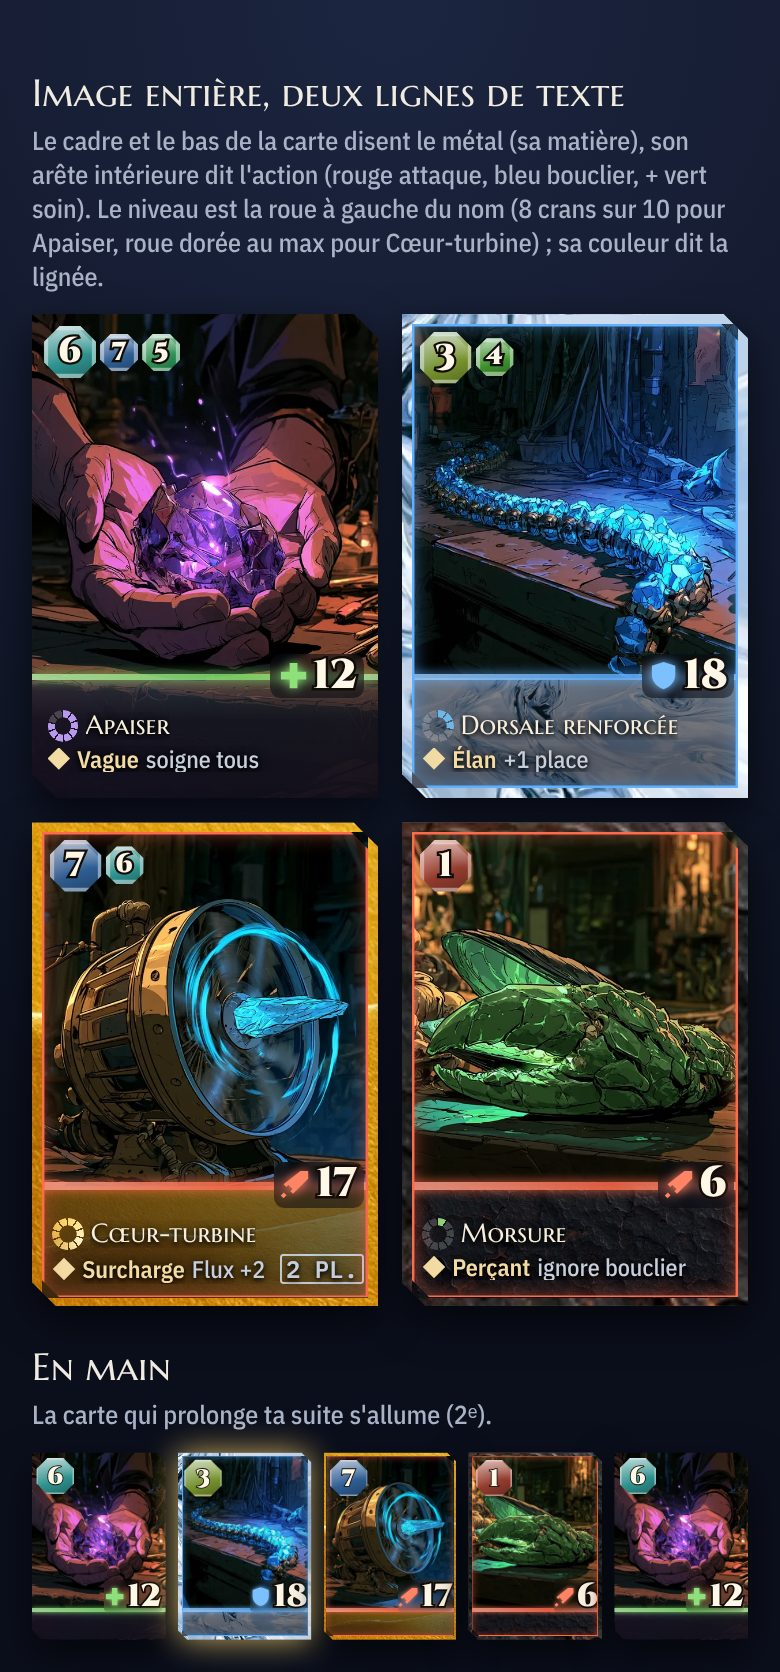
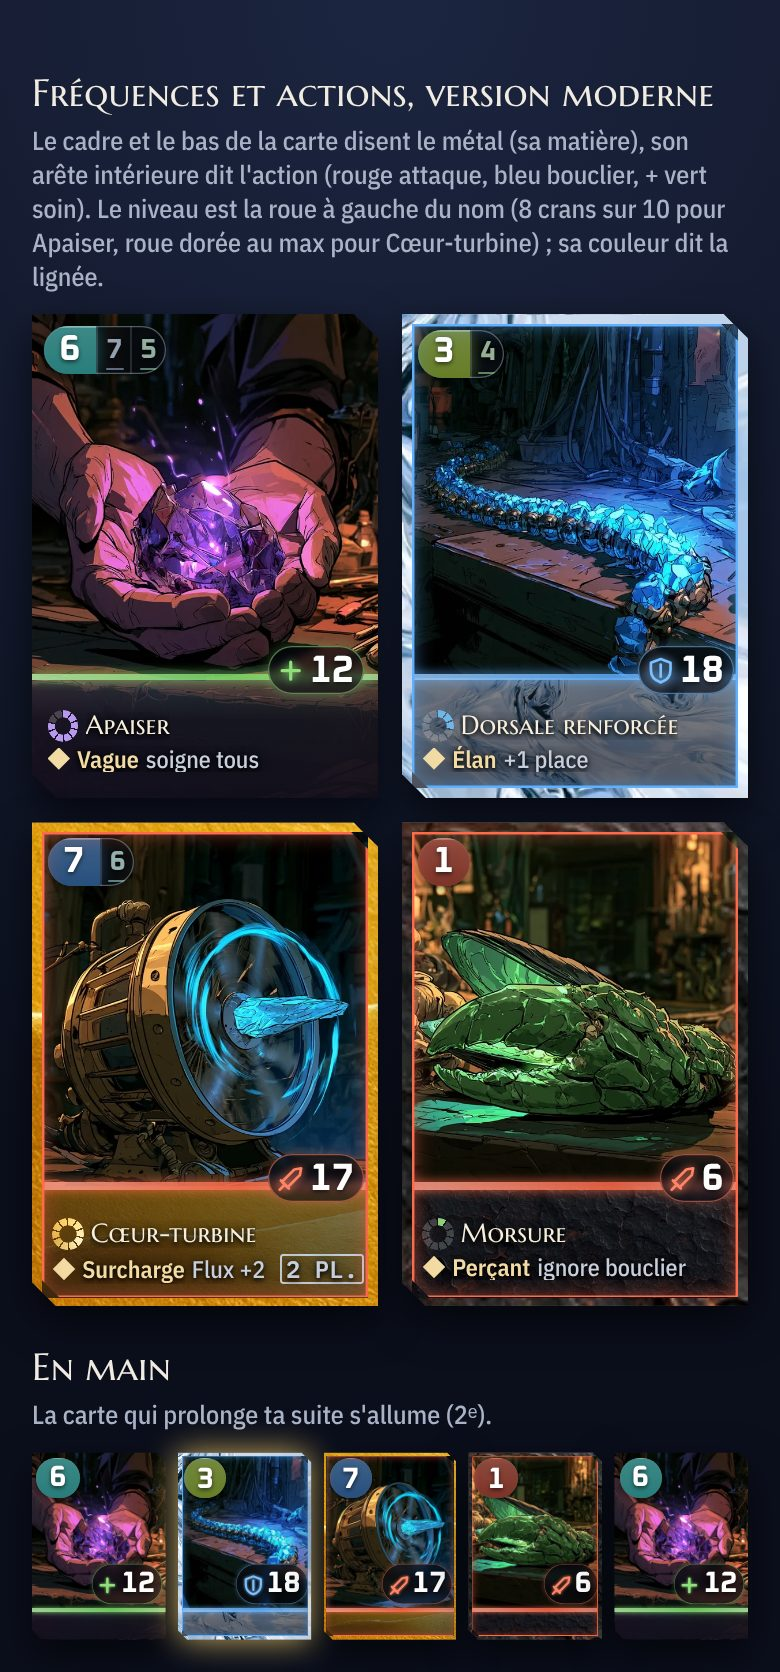
Carte optimale : Fréquences et valeur en capsules de verre, icônes au trait
Claude-Session: https://claude.ai/code/session_01YVrYiWrba2w3WDzans6RUz

diff --git a/docs/carte-optimale.md b/docs/carte-optimale.md
@@ -94,10 +94,12 @@ par le code, net à toutes les tailles :
   sombre à peine irisé, et ses effets holographiques actuels suffisent à la reconnaître : on reconnaît le
   métal d'un coup d'œil ; son arête intérieure et la couture prennent la couleur de l'action (rouge attaque, bleu
   bouclier, vert soin) : on reconnaît l'action aussi (demande de Bryan : « les deux ») ;
-- les cristaux de Fréquence, petits (15 % de la largeur, les autres Fréquences à 11 %), en ligne en haut à gauche ;
+- les Fréquences dans une capsule de verre fumé en haut à gauche (police Oxanium) : la principale en segment plein de sa
+  couleur, les autres à sa droite, plus petites, soulignées de leur couleur ;
 - le bas de la carte (sous le nom et l'effet) dans la même matière du métal, assombrie pour garder le texte lisible
   (demande de Bryan : le métal se lisait encore mal avec le seul cadre) ;
-- la valeur : le chiffre seul, avec une petite icône de couleur posée à sa gauche — épée rouge (attaque), écu bleu
+- la valeur dans une capsule de verre de la même famille, liseré de la couleur de l'action, icônes au trait
+  (épée, écu, +) ; ancienne description : le chiffre seul, avec une petite icône de couleur posée à sa gauche — épée rouge (attaque), écu bleu
   (bouclier), croix « + » verte (soin) — sur une pastille de verre fumé, au-dessus de la couture à droite ;
 - la roue de niveau, le voile et ses deux lignes.
 
